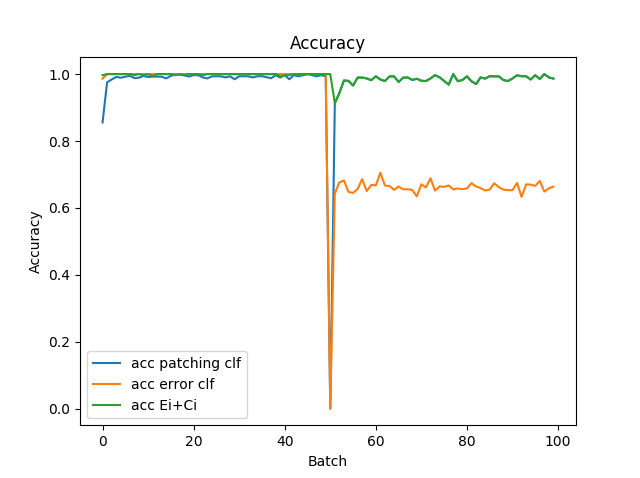
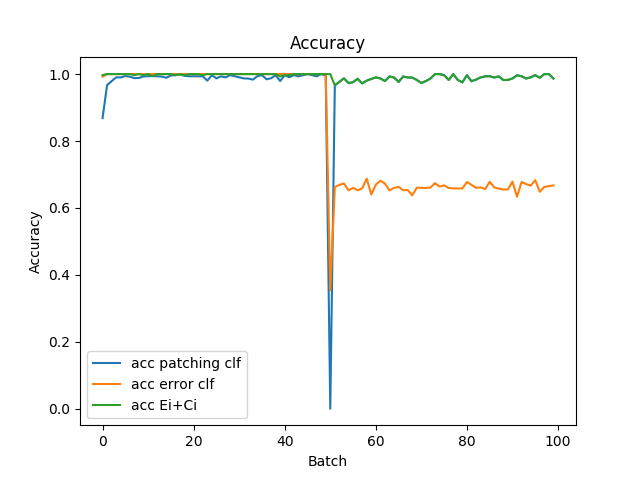
- for email

diff --git a/mnist/mnist_drift_classifier_2.py b/mnist/mnist_drift_classifier_2.py
@@ -8,8 +8,10 @@ from keras.preprocessing.image import ImageDataGenerator
 from keras import backend as K
 import sys
 import matplotlib.pyplot as plt
+from keras.activations import relu, softmax, sigmoid
 
 from data_provider import *
+from model_provider import *
 
 # settings for GPU
 import tensorflow as tf
@@ -26,6 +28,10 @@ if nbArgs < 2:
     print("Please define drift type")
     exit()
 drift_type = sys.argv[1]
+
+resnet = False
+if nbArgs > 2:
+    resnet =  sys.argv[2] == "resnet"
 
 # Functions +++++++++++++++++++++++++++++++++++++++++++++++++++++++
 def load_data(dataPath):
@@ -60,12 +66,6 @@ def calc_accuracy(modelC0, modelEi, modelCi, X, y):
             correct += 1
         index += 1
     return correct / len(X)
-
-def calc_acc_for_E_model(model, X, y):
-    predict = model.predict(X)
-    predict = predict.reshape(len(predict),)
-    print("predict: {0}".format(np.mean(predict)))
-    return np.mean(predict)
 
 # model from scratch
 def make_model(Ei):
@@ -107,6 +107,25 @@ def make_model(Ei):
 
     return model
 
+def make_resnet_model(Ei, n):
+    print("resnet used")
+    model_resnet = make_resnet()
+    model_resnet.load_weights("model_base_resnet_weights.h5")
+    input = Input(shape=(28,28,1))
+    out = model_resnet(input)
+    if Ei:
+        out = Dense(units=1, kernel_regularizer=regularizers.l2(0.01))(out)
+        out = Activation(sigmoid)(out)
+    else:
+        out = Dense(units=10, kernel_regularizer=regularizers.l2(0.01))(out)
+        out = Activation(softmax)(out)
+    model = Model(inputs=input, outputs=out)
+    lossfunc = "binary_crossentropy" if Ei else "categorical_crossentropy"
+    met = "binary_accuracy" if Ei else "categorical_accuracy"
+    model.compile(loss=lossfunc, optimizer='adam', metrics=[met])
+    
+    return model
+
 # def make_weighted_model(Ei):
 #     model = load_model('model_base.h5')
 #     digit_input = model.input
@@ -138,13 +157,11 @@ nbBaseBatches = 20 # size of base dataset
 sizeOneBatch = totalDataSize // nbBatches
 
 # build models using weights from base
-model = load_model('model_base.h5')
+model = load_model("model_base_resnet.h5") if resnet else load_model('model_base.h5')
 
-#model_Ci = make_weighted_model(False)
-#model_Ei = make_weighted_model(True)
-model_Ci = make_model(False)
+model_Ci = make_resnet_model(False, 0) if resnet else make_model(False)
 #model_Ci.load_weights("model_base_weights.h5", by_name=True)
-model_Ei = make_model(True)
+model_Ei = make_resnet_model(True, 0) if resnet else make_model(True)
 #model_Ei.load_weights("model_base_weights.h5", by_name=True)
 
 lossArray_E = []
@@ -221,13 +238,17 @@ for i in range(nbBaseBatches, nbBatches):
         X, y, y_E = transfer(X_org, y_org, i < nbBatches/2)
         data_changed = i >= nbBatches/2
 
+    X_combine = None
+    y_combine = None
+    if data_changed: # for Ei: combine original data and changed data and shuffle them to get better result
+        X_combine, y_combine = combine_Ei_training_data(drift_type, X_org, y_org, X, y_E)
+    else:
+        X_combine = X
+        y_combine = y_E
+        
     # evaluate
-    loss_E, acc_E = model_Ei.evaluate(X, y_E, batch_size=50)
-    print("acc_E: {0}".format(acc_E))
-    #print("y_E shape: {0}, X shape: {1}".format(y_E.shape, X.shape))
-    acc_E = calc_acc_for_E_model(model_Ei, X, y_E)
-    if not data_changed:
-        acc_E = 1.0 - acc_E
+    loss_E, acc_E = model_Ei.evaluate(X_combine, y_combine, batch_size=50)
+    print("acc_E: {0}, loss: {1}".format(acc_E, loss_E))
     lossArray_E.append(loss_E)
     accArray_E.append(acc_E)
     loss, acc = model_Ci.evaluate(X, y, batch_size=50)
@@ -238,15 +259,17 @@ for i in range(nbBaseBatches, nbBatches):
     accChainedArray.append(accChained)
 
     # training
-    if data_changed: # combine original data and changed data and shuffle them to get better result
-        X_combine, y_combine = combine_Ei_training_data(drift_type, X_org, y_org, X, y_E)
-        model_Ei.fit(X_combine, y_combine, batch_size=50, epochs=10)
-    else:
-        model_Ei.fit(X, y_E, batch_size=50, epochs=10)
-    
+    # if data_changed: # combine original data and changed data and shuffle them to get better result
+    #     X_combine, y_combine = combine_Ei_training_data(drift_type, X_org, y_org, X, y_E)
+    #     model_Ei.fit(X_combine, y_combine, batch_size=50, epochs=10)
+    # else:
+    #     model_Ei.fit(X, y_E, batch_size=50, epochs=10)
+    model_Ei.fit(X_combine, y_combine, batch_size=50, epochs=10)
     model_Ci.fit(X, y, batch_size=50, epochs=10)
 
 npFileName = "mnist_drift_{0}_from_scratch_64.npz".format(drift_type)
+if resnet:
+    npFileName = "mnist_drift_{0}_resnet.npz".format(drift_type)
 np.savez(npFileName, acc=accArray, acc_E=accArray_E, 
                     loss=lossArray, loss_E=lossArray_E,
                     accChained=accChainedArray,

diff --git a/mnist/data_provider.py b/mnist/data_provider.py
@@ -25,35 +25,35 @@ def flip_images(X, y, doFlip):
     
     return (X, y, y_E)
 
-def flip_images2(X, y, doFlip):
-    if not doFlip:
-        y = to_categorical(y, 10)
-        y_E = np.zeros(len(y))
-        return (X, y, y_E)
+# def flip_images2(X, y, doFlip):
+#     if not doFlip:
+#         y = to_categorical(y, 10)
+#         y_E = np.zeros(len(y))
+#         return (X, y, y_E)
 
-    datagen = ImageDataGenerator(
-        horizontal_flip=True,
-        vertical_flip=True,
-    )
-    datagen.fit(X)
-    data_it = datagen.flow(X, y, batch_size=1)
+#     datagen = ImageDataGenerator(
+#         horizontal_flip=True,
+#         vertical_flip=True,
+#     )
+#     datagen.fit(X)
+#     data_it = datagen.flow(X, y, batch_size=1)
     
-    data_list = []
-    y_list = []
-    batch_index = 0
-    while batch_index <= data_it.batch_index:
-        data = data_it.next()
-        data_list.append(data[0])
-        y_list.append(data[1])
-        batch_index = batch_index + 1
+#     data_list = []
+#     y_list = []
+#     batch_index = 0
+#     while batch_index <= data_it.batch_index:
+#         data = data_it.next()
+#         data_list.append(data[0])
+#         y_list.append(data[1])
+#         batch_index = batch_index + 1
 
-    data_array = np.asarray(data_list)
-    data_array = data_array.reshape(-1, 28, 28, 1)
-    y_array = np.asarray(y_list)
+#     data_array = np.asarray(data_list)
+#     data_array = data_array.reshape(-1, 28, 28, 1)
+#     y_array = np.asarray(y_list)
 
-    y_array_E = np.full(len(data_array), 1.0)
-    y_array = to_categorical(y_array, 10)
-    return (data_array, y_array, y_array_E)
+#     y_array_E = np.full(len(data_array), 1.0)
+#     y_array = to_categorical(y_array, 10)
+#     return (data_array, y_array, y_array_E)
 
 def appear(X, y, isBase):
     if isBase:
